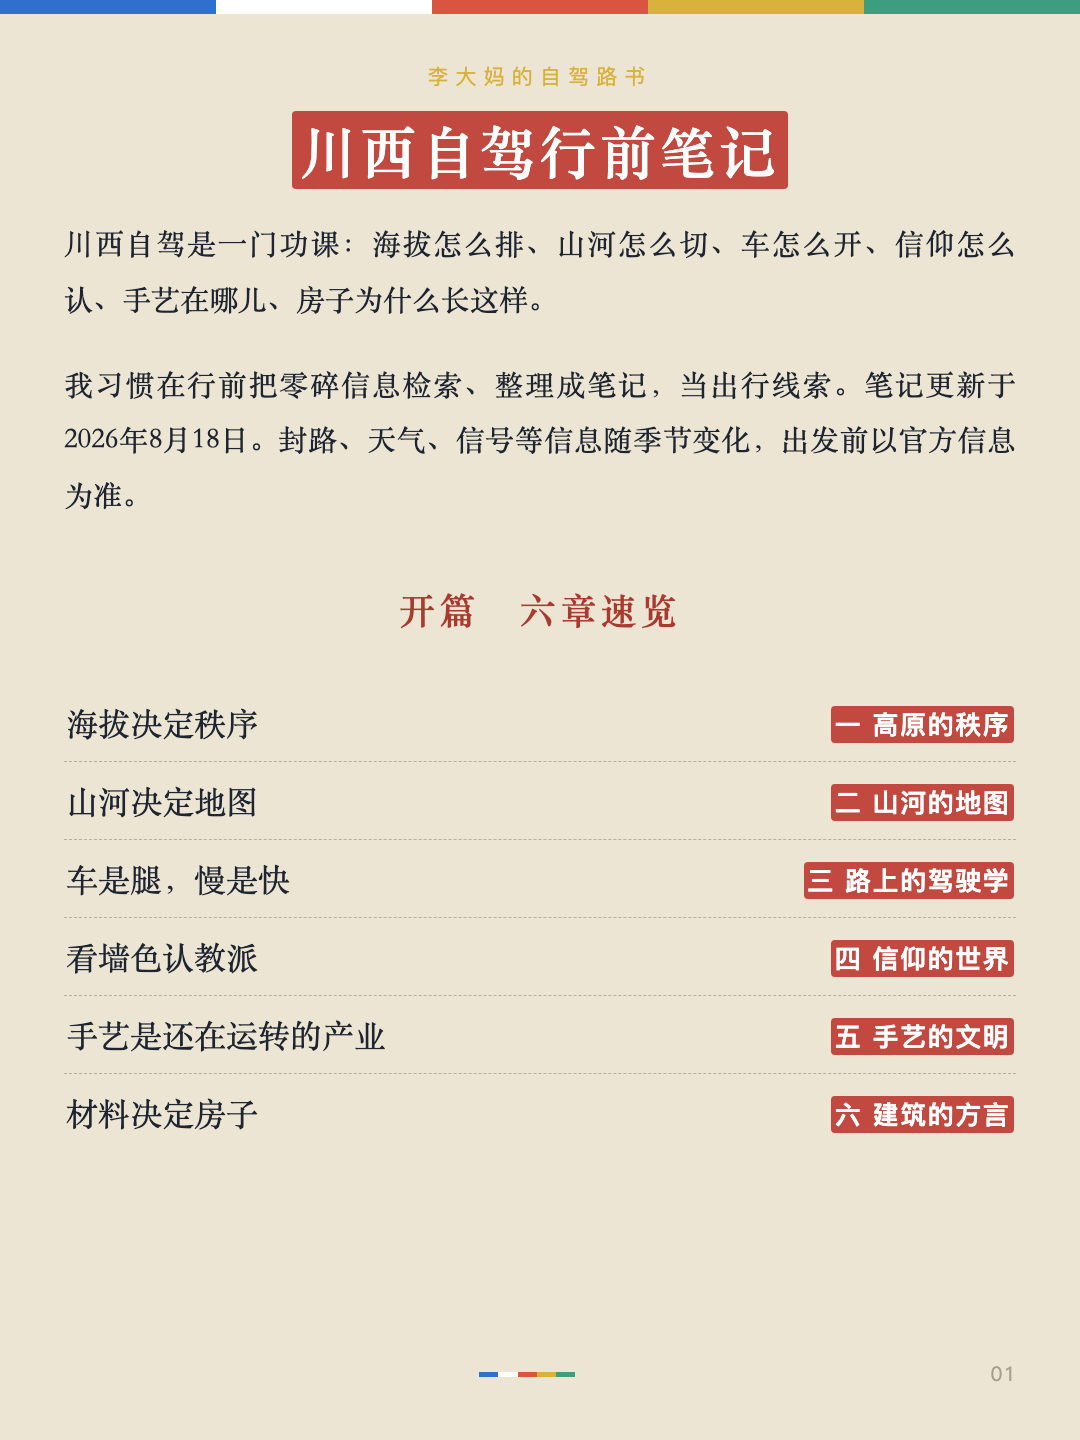
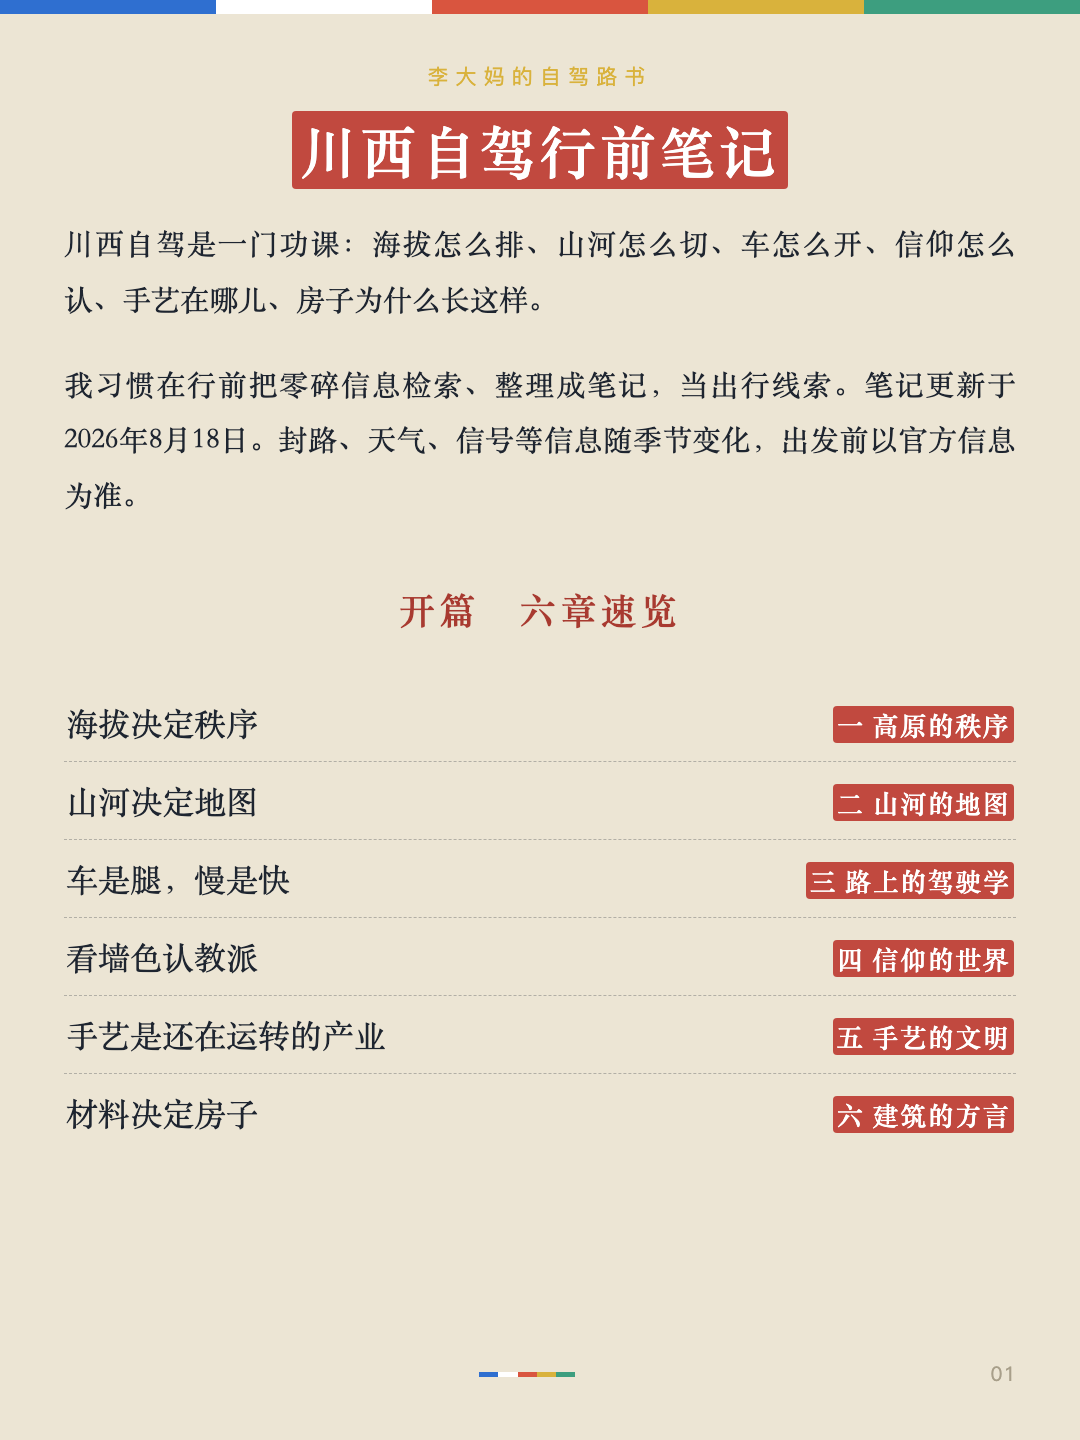
开篇章节名去掉黑体，改用衬线

diff --git a/cards.html b/cards.html
@@ -93,8 +93,7 @@
   }
   .card__keys li:last-child{border-bottom:none;}
   .card__keys li strong{
-    font-size:26px;
-    font-family:var(--sans);letter-spacing:.06em;white-space:nowrap;
+    font-size:26px;letter-spacing:.06em;white-space:nowrap;
   }
 
   .card ul.card__list{list-style:none;margin:6px 0 0;font-size:29px;line-height:1.92;}

diff --git a/gen_cards.py b/gen_cards.py
@@ -186,8 +186,7 @@ CSS = """
   }
   .card__keys li:last-child{border-bottom:none;}
   .card__keys li strong{
-    font-size:26px;
-    font-family:var(--sans);letter-spacing:.06em;white-space:nowrap;
+    font-size:26px;letter-spacing:.06em;white-space:nowrap;
   }
 
   .card ul.card__list{list-style:none;margin:6px 0 0;font-size:29px;line-height:1.92;}
